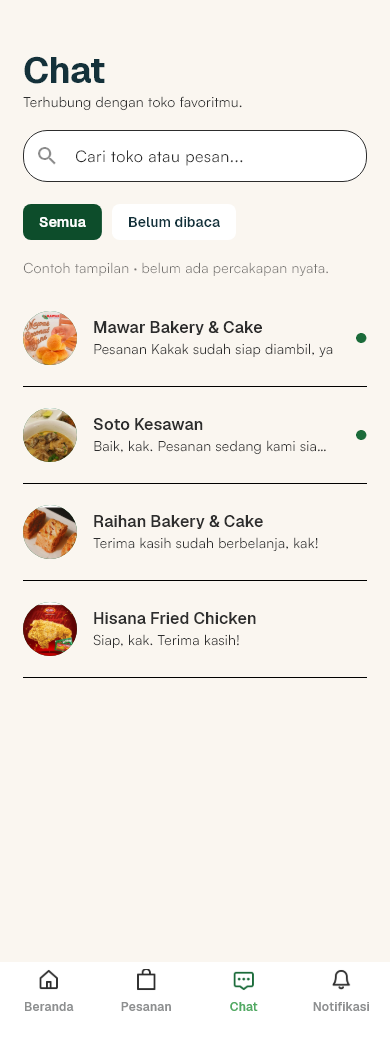
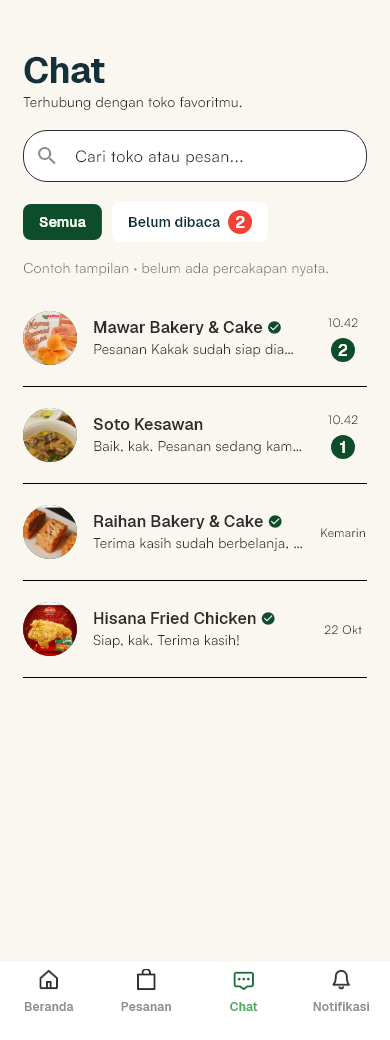
fix(chat): show sample conversation metadata

diff --git a/app/lib/features/discovery/chat_page.dart b/app/lib/features/discovery/chat_page.dart
@@ -8,13 +8,50 @@ const _ink = Color(0xFF14313A);
 const _searchRadius = 24.0;
 const _chipSpacing = 10.0;
 const _avatarRadius = 27.0;
+const _unreadBadgeRadius = 12.0;
+const _trailingWidth = 48.0;
 
-const List<({int food, String message, bool unread})> _conversations = [
-  (food: 0, message: 'Pesanan Kakak sudah siap diambil, ya', unread: true),
-  (food: 1, message: 'Baik, kak. Pesanan sedang kami siapkan.', unread: true),
-  (food: 2, message: 'Terima kasih sudah berbelanja, kak!', unread: false),
-  (food: 3, message: 'Siap, kak. Terima kasih!', unread: false),
+typedef _Conversation = ({
+  int food,
+  String message,
+  String time,
+  int unreadCount,
+  bool designMark,
+});
+
+const List<_Conversation> _conversations = [
+  (
+    food: 0,
+    message: 'Pesanan Kakak sudah siap diambil, ya',
+    time: '10.42',
+    unreadCount: 2,
+    designMark: true,
+  ),
+  (
+    food: 1,
+    message: 'Baik, kak. Pesanan sedang kami siapkan.',
+    time: '10.42',
+    unreadCount: 1,
+    designMark: false,
+  ),
+  (
+    food: 2,
+    message: 'Terima kasih sudah berbelanja, kak!',
+    time: 'Kemarin',
+    unreadCount: 0,
+    designMark: true,
+  ),
+  (
+    food: 3,
+    message: 'Siap, kak. Terima kasih!',
+    time: '22 Okt',
+    unreadCount: 0,
+    designMark: true,
+  ),
 ];
+
+int get _unreadConversationCount =>
+    _conversations.where((item) => item.unreadCount > 0).length;
 
 /// Searchable visual preview of the supplied chat list design.
 class ChatPage extends StatefulWidget {
@@ -33,7 +70,7 @@ class _ChatPageState extends State<ChatPage> {
   Widget build(BuildContext context) {
     final visible = _conversations.where((conversation) {
       final merchant = DemoFood.examples[conversation.food].merchant;
-      return (!_unreadOnly || conversation.unread) &&
+      return (!_unreadOnly || conversation.unreadCount > 0) &&
           '$merchant ${conversation.message}'.toLowerCase().contains(
             _query.trim().toLowerCase(),
           );
@@ -75,7 +112,7 @@ class _ChatPageState extends State<ChatPage> {
 class _ConversationList extends StatelessWidget {
   const new({required this.conversations});
 
-  final Iterable<({int food, String message, bool unread})> conversations;
+  final Iterable<_Conversation> conversations;
 
   @override
   Widget build(BuildContext context) => Column(
@@ -84,7 +121,9 @@ class _ConversationList extends StatelessWidget {
         _ConversationRow(
           food: DemoFood.examples[conversation.food],
           message: conversation.message,
-          unread: conversation.unread,
+          time: conversation.time,
+          unreadCount: conversation.unreadCount,
+          designMark: conversation.designMark,
         ),
       if (conversations.isEmpty)
         const Padding(
@@ -125,7 +164,23 @@ class _ChatFilters extends StatelessWidget {
     children: [
       for (final unread in [false, true])
         ChoiceChip(
-          label: Text(unread ? 'Belum dibaca' : 'Semua'),
+          label: unread
+              ? Row(
+                  mainAxisSize: MainAxisSize.min,
+                  children: [
+                    const Text('Belum dibaca'),
+                    const SizedBox(width: 8),
+                    CircleAvatar(
+                      radius: _unreadBadgeRadius,
+                      backgroundColor: Colors.red,
+                      child: Text(
+                        '$_unreadConversationCount',
+                        style: const TextStyle(color: Colors.white),
+                      ),
+                    ),
+                  ],
+                )
+              : const Text('Semua'),
           selected: unreadOnly == unread,
           showCheckmark: false,
           selectedColor: PanganKitaColors.brandPrimaryStrong,
@@ -143,11 +198,19 @@ class _ChatFilters extends StatelessWidget {
 }
 
 class _ConversationRow extends StatelessWidget {
-  const new({required this.food, required this.message, required this.unread});
+  const new({
+    required this.food,
+    required this.message,
+    required this.time,
+    required this.unreadCount,
+    required this.designMark,
+  });
 
   final DemoFood food;
   final String message;
-  final bool unread;
+  final String time;
+  final int unreadCount;
+  final bool designMark;
 
   @override
   Widget build(BuildContext context) => Column(
@@ -158,20 +221,47 @@ class _ConversationRow extends StatelessWidget {
           radius: _avatarRadius,
           backgroundImage: AssetImage(food.image),
         ),
-        title: Text(
-          food.merchant,
-          maxLines: 1,
-          overflow: TextOverflow.ellipsis,
-          style: Theme.of(context).textTheme.titleMedium,
+        title: Row(
+          children: [
+            Flexible(
+              child: Text(
+                food.merchant,
+                maxLines: 1,
+                overflow: TextOverflow.ellipsis,
+                style: Theme.of(context).textTheme.titleMedium,
+              ),
+            ),
+            if (designMark) ...[
+              const SizedBox(width: 4),
+              const ExcludeSemantics(
+                child: Icon(
+                  Icons.check_circle,
+                  size: 15,
+                  color: PanganKitaColors.brandPrimaryStrong,
+                ),
+              ),
+            ],
+          ],
         ),
         subtitle: Text(message, maxLines: 1, overflow: TextOverflow.ellipsis),
-        trailing: unread
-            ? const Icon(
-                Icons.circle,
-                size: 12,
-                color: PanganKitaColors.brandPrimary,
-              )
-            : null,
+        trailing: SizedBox(
+          width: _trailingWidth,
+          child: Column(
+            mainAxisAlignment: MainAxisAlignment.spaceAround,
+            children: [
+              Text(time, style: Theme.of(context).textTheme.bodySmall),
+              if (unreadCount > 0)
+                CircleAvatar(
+                  radius: _unreadBadgeRadius,
+                  backgroundColor: PanganKitaColors.brandPrimaryStrong,
+                  child: Text(
+                    '$unreadCount',
+                    style: const TextStyle(color: Colors.white),
+                  ),
+                ),
+            ],
+          ),
+        ),
         onTap: () => DemoNotice.unavailable(context),
       ),
       const Divider(height: 1),

diff --git a/app/test/chat_page_test.dart b/app/test/chat_page_test.dart
@@ -28,6 +28,11 @@ void main() {
     await tester.pumpAndSettle();
     expect(find.textContaining('belum ada percakapan nyata'), findsOneWidget);
     expect(find.text('Mawar Bakery & Cake'), findsOneWidget);
+    expect(find.text('10.42'), findsNWidgets(2));
+    expect(find.text('Kemarin'), findsOneWidget);
+    expect(find.text('22 Okt'), findsOneWidget);
+    expect(find.text('2'), findsNWidgets(2));
+    expect(find.text('1'), findsOneWidget);
     await tester.enterText(find.byType(TextField), 'Soto');
     await tester.pumpAndSettle();
     expect(find.text('Soto Kesawan'), findsOneWidget);
@@ -63,6 +68,8 @@ void main() {
         await tester.tap(find.text('Belum dibaca'));
         await tester.pumpAndSettle();
         expect(tester.takeException(), isNull);
+        expect(find.text('Kemarin'), findsNothing);
+        expect(find.text('10.42'), findsNWidgets(2));
       });
     }
   }
